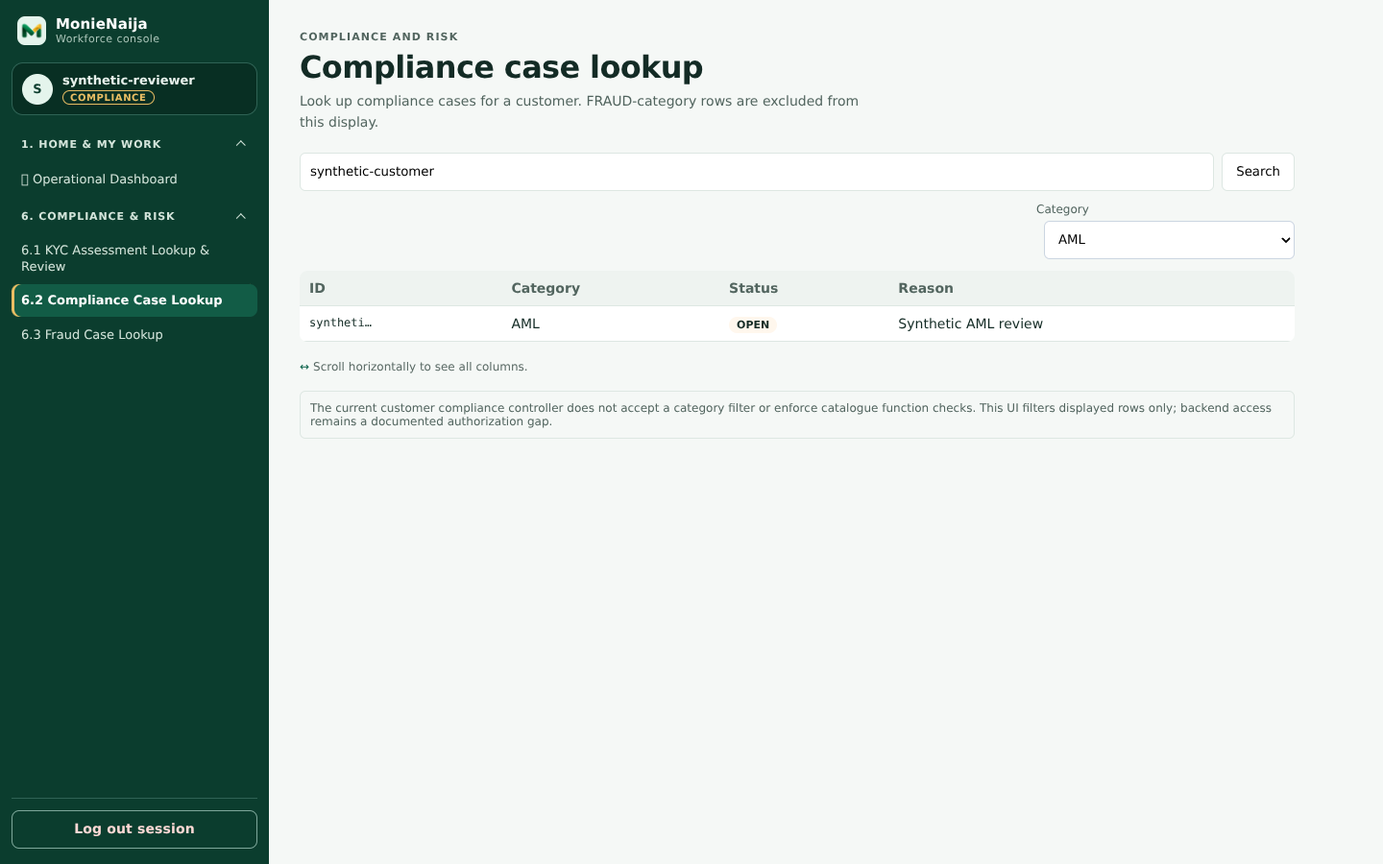
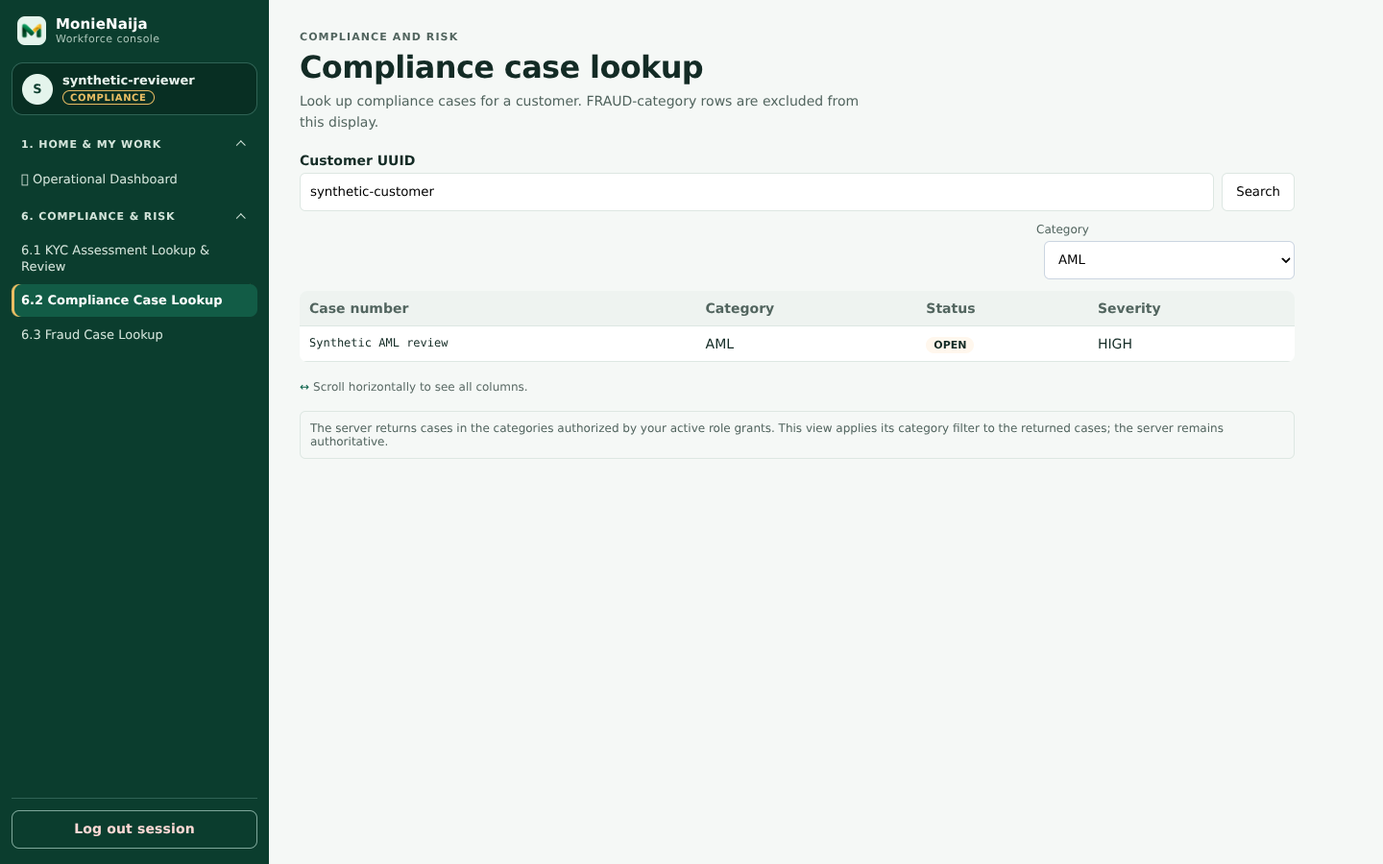
Align compliance workspaces with case access contract

diff --git a/apps/admin-web/src/screens/authenticated/ComplianceScreen.tsx b/apps/admin-web/src/screens/authenticated/ComplianceScreen.tsx
@@ -4,6 +4,7 @@ import './compliance-workspace.css';
 import { PageHeader, ScrollRegion } from '../../design-system/primitives';
 import { ApiClient } from '../../services/api-client';
 import { useAuthStore } from '../../store/auth-store';
+import { validCustomerCase } from '../../utils/compliance-case';
 
 interface ComplianceScreenProps {
   initialCustomerId?: string;
@@ -19,7 +20,7 @@ export const ComplianceScreen: React.FC<ComplianceScreenProps> = ({
   onBackToCustomer,
 }) => {
   const { principal } = useAuthStore();
-  const key = `${principal?.principalId ?? ''}:${[...(principal?.scopes ?? [])].sort().join('|')}:${mode}:${initialCustomerId ?? ''}`;
+  const key = JSON.stringify([principal?.principalId, principal?.sessionId, principal?.type, principal?.assuranceLevel, principal?.scopes, principal?.roles, mode, initialCustomerId, initialCategory]);
   return <ComplianceWorkspace key={key} principal={principal} initialCustomerId={initialCustomerId} initialCategory={initialCategory} mode={mode} onBackToCustomer={onBackToCustomer} />;
 };
 
@@ -75,10 +76,10 @@ const ComplianceWorkspace: React.FC<ComplianceScreenProps & {principal: ReturnTy
       requests.push(
         ApiClient.get(`/customers/${encodeURIComponent(id)}/kyc`)
           .then((record: any) => {
-            if (record !== null && (!record || typeof record !== 'object' || Array.isArray(record) || typeof (record.level ?? record.kycLevel) !== 'string' || typeof (record.status ?? record.kycStatus) !== 'string' || (record.customerId && record.customerId !== id))) throw new Error('KYC lookup returned an invalid response.');
+            if (!record || typeof record !== 'object' || Array.isArray(record) || typeof record.level !== 'string' || typeof record.status !== 'string' || record.customerId !== id) throw new Error('KYC lookup returned an invalid response.');
             if (valid()) setKyc(record);
           })
-          .catch((err: any) => { errors.push(err?.message || 'KYC assessment lookup failed'); }),
+          .catch((err: any) => { errors.push(err?.status === 404 ? 'Customer or current KYC assessment not found.' : err?.message || 'KYC assessment lookup failed'); }),
       );
     }
     if (mode === 'cases' && canManageCases) {
@@ -86,7 +87,7 @@ const ComplianceWorkspace: React.FC<ComplianceScreenProps & {principal: ReturnTy
         ApiClient.get(`/customers/${encodeURIComponent(id)}/compliance-cases`)
           .then((response: any) => {
             const rows = Array.isArray(response) ? response : response?.data ?? response?.items;
-            if (!Array.isArray(rows) || rows.some((row: any) => !row || typeof row.id !== 'string')) throw new Error('Compliance lookup returned an invalid response.');
+            if (!Array.isArray(rows) || rows.some((row: unknown) => !validCustomerCase(row, id))) throw new Error('Compliance lookup returned an invalid response.');
             if (valid()) setCases(rows);
           })
           .catch((err: any) => { errors.push(err?.message || 'Compliance case lookup failed'); }),
@@ -149,15 +150,15 @@ const ComplianceWorkspace: React.FC<ComplianceScreenProps & {principal: ReturnTy
     <div className="mn-operational mn-compliance" style={wrap}>
       <PageHeader eyebrow="Compliance and risk" title={mode === 'cases' ? 'Compliance case lookup' : 'KYC assessment lookup & review'} description={mode === 'cases' ? 'Look up compliance cases for a customer. FRAUD-category rows are excluded from this display.' : 'Look up an existing customer KYC assessment and perform only the review decision allowed by your function grants.'} />
       {initialCustomerId && onBackToCustomer && <button type="button" style={backButton} onClick={onBackToCustomer}>← Back to Customer 360°</button>}
-      <div style={searchRow}>
+      <div className="mn-compliance__search">
+        <label>Customer UUID
         <input
-          aria-label="Customer UUID"
           value={customerId}
           onChange={(event) => { lookupGeneration.current += 1; setLoading(false); setCustomerId(event.target.value); setKyc(null); setCases([]); setSearched(false); setError(''); setAssessMsg(''); setAssessErr(''); }}
           disabled={assessing}
           placeholder={initialCustomerId ? `Customer ${initialCustomerId.slice(0, 8)}…` : 'Customer UUID'}
           style={input}
-        />
+        /></label>
         <button onClick={() => fetchForCustomer()} style={btn} disabled={loading || assessing}>{loading ? 'Loading…' : 'Search'}</button>
       </div>
       {initialCustomerId && <div style={note}>Customer context carried from Customer 360°; the customer ID is passed to the scoped lookup endpoint.</div>}
@@ -192,11 +193,11 @@ const ComplianceWorkspace: React.FC<ComplianceScreenProps & {principal: ReturnTy
           </div>
           {visibleCases.length > 0 ? (
             <ScrollRegion label="Compliance cases" hint="Scroll horizontally to see all columns."><table style={table}>
-              <thead><tr><th>ID</th><th>Category</th><th>Status</th><th>Reason</th></tr></thead>
-              <tbody>{visibleCases.map((item: any) => <tr key={item.id}><td style={mono}>{item.id.slice(0, 8)}…</td><td>{item.category || item.type}</td><td><span style={badge(item.status)}>{item.status}</span></td><td>{item.reason || item.description || '—'}</td></tr>)}</tbody>
+              <thead><tr><th>Case number</th><th>Category</th><th>Status</th><th>Severity</th></tr></thead>
+              <tbody>{visibleCases.map((item: any) => <tr key={item.id}><td style={mono}>{item.caseNumber}</td><td>{item.category}</td><td><span style={badge(item.status)}>{item.status}</span></td><td>{item.severity}</td></tr>)}</tbody>
             </table></ScrollRegion>
           ) : !loading && searched && !error && <div style={empty}>No compliance cases match this customer and category filter.</div>}
-          <div style={note}>The current customer compliance controller does not accept a category filter or enforce catalogue function checks. This UI filters displayed rows only; backend access remains a documented authorization gap.</div>
+          <div style={note}>The server returns cases in the categories authorized by your active role grants. This view applies its category filter to the returned cases; the server remains authoritative.</div>
         </>
       )}
 

diff --git a/apps/admin-web/src/screens/authenticated/RiskFraudScreen.tsx b/apps/admin-web/src/screens/authenticated/RiskFraudScreen.tsx
@@ -4,6 +4,7 @@ import './compliance-workspace.css';
 import { PageHeader, ScrollRegion } from '../../design-system/primitives';
 import { ApiClient } from '../../services/api-client';
 import { useAuthStore } from '../../store/auth-store';
+import { validCustomerCase } from '../../utils/compliance-case';
 
 interface RiskFraudScreenProps {
   initialCustomerId?: string;
@@ -13,7 +14,7 @@ interface RiskFraudScreenProps {
 export const RiskFraudScreen: React.FC<RiskFraudScreenProps> = ({ initialCustomerId, onBackToCustomer }) => {
   const { principal } = useAuthStore();
   const canView = principal?.scopes.includes('risk_fraud.manage_fraud_case') ?? false;
-  const key = `${principal?.principalId ?? ''}:${canView}:${initialCustomerId ?? ''}`;
+  const key = JSON.stringify([principal?.principalId, principal?.sessionId, principal?.type, principal?.assuranceLevel, principal?.roles, canView, initialCustomerId]);
   return <FraudWorkspace key={key} canView={canView} initialCustomerId={initialCustomerId} onBackToCustomer={onBackToCustomer} />;
 };
 const FraudWorkspace: React.FC<RiskFraudScreenProps & {canView: boolean}> = ({canView, initialCustomerId, onBackToCustomer}) => {
@@ -31,10 +32,10 @@ const FraudWorkspace: React.FC<RiskFraudScreenProps & {canView: boolean}> = ({ca
     const id = requestedId.trim(); const request = ++generation.current;
     setLoading(true); setError(''); setCases([]); setSearched(false);
     try {
-      // The controller does not implement a category query; the screen filters the returned list.
+      // The server limits categories by current grants; this screen displays only FRAUD rows.
       const res: any = await ApiClient.get(`/customers/${encodeURIComponent(id)}/compliance-cases`);
       const all = Array.isArray(res) ? res : res?.data ?? res?.items;
-      if (!Array.isArray(all) || all.some((row: any) => !row || typeof row.id !== 'string')) throw new Error('Fraud case lookup returned an invalid response.');
+      if (!Array.isArray(all) || all.some((row: unknown) => !validCustomerCase(row, id))) throw new Error('Fraud case lookup returned an invalid response.');
       if (request !== generation.current) return;
       setCases(all.filter((c:any)=>(c.category||c.type)==='FRAUD'));
       setSearched(true);
@@ -50,11 +51,11 @@ const FraudWorkspace: React.FC<RiskFraudScreenProps & {canView: boolean}> = ({ca
     <div className="mn-operational mn-compliance" style={wrap}>
       <PageHeader eyebrow="Compliance and risk" title="Fraud case lookup" description={`This screen displays FRAUD-category compliance cases for a customer. ${initialCustomerId ? 'Customer ID pre-filled from Customer 360°.' : 'Search by customer UUID.'}`} />
       {initialCustomerId && onBackToCustomer && <button type="button" onClick={onBackToCustomer} style={btn}>← Back to Customer 360°</button>}
-      <div style={row}><input aria-label="Customer UUID" value={customerId} onChange={e=>{generation.current += 1;setCustomerId(e.target.value);setCases([]);setSearched(false);setError('');setLoading(false);}} placeholder={initialCustomerId ? `Customer ${initialCustomerId.slice(0,8)}…` : "Customer UUID"} style={input}/><button onClick={()=>void fetchFraud()} style={btn} disabled={loading}>{loading?'Loading…':'Search FRAUD cases'}</button></div>
+      <div className="mn-compliance__search"><label>Customer UUID<input value={customerId} onChange={e=>{generation.current += 1;setCustomerId(e.target.value);setCases([]);setSearched(false);setError('');setLoading(false);}} placeholder={initialCustomerId ? `Customer ${initialCustomerId.slice(0,8)}…` : "Customer UUID"} style={input}/></label><button onClick={()=>void fetchFraud()} style={btn} disabled={loading}>{loading?'Loading…':'Search FRAUD cases'}</button></div>
       {initialCustomerId && <div style={note}>🔗 Customer pre-filled — no manual UUID paste.</div>}
       {error && <div style={errBox} role="alert">{error}</div>}
-      {cases.length>0 ? <ScrollRegion label="Fraud cases" hint="Scroll horizontally to see all columns."><table style={table}><thead><tr><th>ID</th><th>Status</th><th>Reason</th><th>Created</th></tr></thead><tbody>{cases.map((c:any)=><tr key={c.id}><td style={mono}>{c.id.slice(0,8)}…</td><td><span style={badge(c.status)}>{c.status}</span></td><td>{c.reason||'-'}</td><td>{c.createdAt? new Date(c.createdAt).toLocaleString(): '-'}</td></tr>)}</tbody></table></ScrollRegion> : !loading && searched && !error && <div style={empty}>No FRAUD cases — empty is expected unless risk events were created.</div>}
-      <div style={note}>The current compliance-case list endpoint returns all categories and has no catalogue function check. FRAUD filtering happens in this UI only; backend category isolation is a documented authorization gap and is not replaced by this screen guard.</div>
+      {cases.length>0 ? <ScrollRegion label="Fraud cases" hint="Scroll horizontally to see all columns."><table style={table}><thead><tr><th>Case number</th><th>Status</th><th>Severity</th><th>Opened</th></tr></thead><tbody>{cases.map((c:any)=><tr key={c.id}><td style={mono}>{c.caseNumber}</td><td><span style={badge(c.status)}>{c.status}</span></td><td>{c.severity}</td><td>{c.openedAt && Number.isFinite(Date.parse(c.openedAt)) ? new Date(c.openedAt).toLocaleString() : '—'}</td></tr>)}</tbody></table></ScrollRegion> : !loading && searched && !error && <div style={empty}>No FRAUD cases — empty is expected unless risk events were created.</div>}
+      <div style={note}>The server returns cases in the categories authorized by your active role grants. This view displays FRAUD cases from those results; the server remains authoritative.</div>
     </div>
   );
 };

diff --git a/apps/admin-web/__tests__/m2-compliance-workspaces.test.tsx b/apps/admin-web/__tests__/m2-compliance-workspaces.test.tsx
@@ -16,12 +16,29 @@ test('KYC response for a previous lookup cannot appear after changing the custom
  expect(screen.queryByText(/LEVEL_3/)).toBeNull();expect(screen.getByText(/Level LEVEL_2/)).toBeTruthy();
 });
 test('switching the fraud customer clears prior results and ignores obsolete responses',async()=>{
- principal(['risk_fraud.manage_fraud_case']);const old=deferred();(ApiClient.get as jest.Mock).mockReturnValueOnce(old.promise).mockResolvedValueOnce([{id:'new-fraud',category:'FRAUD',status:'OPEN',reason:'new case'}]);
+ principal(['risk_fraud.manage_fraud_case']);const old=deferred();(ApiClient.get as jest.Mock).mockReturnValueOnce(old.promise).mockResolvedValueOnce([{id:'new-fraud',customerId:'new',caseNumber:'new case',category:'FRAUD',severity:'HIGH',status:'OPEN'}]);
  render(<RiskFraudScreen/>);fireEvent.change(screen.getByLabelText('Customer UUID'),{target:{value:'old'}});fireEvent.click(screen.getByRole('button',{name:'Search FRAUD cases'}));fireEvent.change(screen.getByLabelText('Customer UUID'),{target:{value:'new'}});fireEvent.click(screen.getByRole('button',{name:'Search FRAUD cases'}));
- expect(await screen.findByText('new case')).toBeTruthy();await act(async()=>{old.resolve([{id:'old-fraud',category:'FRAUD',status:'OPEN',reason:'old case'}]);await old.promise;});expect(screen.queryByText('old case')).toBeNull();
+ expect(await screen.findByText('new case')).toBeTruthy();await act(async()=>{old.resolve([{id:'old-fraud',customerId:'old',caseNumber:'old case',category:'FRAUD',severity:'HIGH',status:'OPEN'}]);await old.promise;});expect(screen.queryByText('old case')).toBeNull();
 });
 test('KYC submission distinguishes an incomplete receipt and keeps successful feedback visible after refresh',async()=>{
  principal(['kyc.view','kyc.approve']);(ApiClient.get as jest.Mock).mockResolvedValue({customerId:'synthetic-customer',level:'LEVEL_1',status:'APPROVED'});(ApiClient.post as jest.Mock).mockResolvedValueOnce({}).mockResolvedValueOnce({id:'assessment',customerId:'synthetic-customer',level:'LEVEL_1',status:'APPROVED'});
  render(<ComplianceScreen mode="kyc"/>);fireEvent.change(screen.getByLabelText('Customer UUID'),{target:{value:'synthetic-customer'}});fireEvent.click(screen.getByRole('button',{name:'Submit Assessment'}));
  expect(await screen.findByText(/Assessment outcome not confirmed/)).toBeTruthy();fireEvent.click(screen.getByRole('button',{name:'Submit Assessment'}));expect(await screen.findByText('KYC assessment submitted.')).toBeTruthy();expect(await screen.findByText(/Level LEVEL_1/)).toBeTruthy();expect(screen.getByText('KYC assessment submitted.')).toBeTruthy();
+});
+test('a 404 does not imply whether the customer or assessment was absent',async()=>{
+ principal(['kyc.view']);(ApiClient.get as jest.Mock).mockRejectedValue(Object.assign(new Error('Not found'),{status:404}));
+ render(<ComplianceScreen mode="kyc"/>);fireEvent.change(screen.getByLabelText('Customer UUID'),{target:{value:'missing'}});fireEvent.click(screen.getByRole('button',{name:'Search'}));
+ expect(await screen.findByText('Customer or current KYC assessment not found.')).toBeTruthy();expect(screen.queryByText('No KYC assessment found for this customer.')).toBeNull();
+});
+test('an incomplete case row or a case for another customer is an error, not an empty result',async()=>{
+ principal(['compliance.manage_case']);(ApiClient.get as jest.Mock).mockResolvedValueOnce([{id:'case',customerId:'one',caseNumber:'CASE-1',status:'OPEN',severity:'HIGH'}]).mockResolvedValueOnce([{id:'case',customerId:'other',caseNumber:'CASE-1',category:'AML',status:'OPEN',severity:'HIGH'}]);
+ render(<ComplianceScreen mode="cases"/>);fireEvent.change(screen.getByLabelText('Customer UUID'),{target:{value:'one'}});fireEvent.click(screen.getByRole('button',{name:'Search'}));
+ expect(await screen.findByText('Compliance lookup returned an invalid response.')).toBeTruthy();expect(screen.queryByText(/No compliance cases match/)).toBeNull();fireEvent.click(screen.getByRole('button',{name:'Search'}));expect(await screen.findByText('Compliance lookup returned an invalid response.')).toBeTruthy();
+});
+test('review-only KYC functions cannot select an approval or rejection',()=>{
+ principal(['kyc.review']);render(<ComplianceScreen mode="kyc"/>);expect(screen.getByRole('option',{name:'PENDING'})).toBeTruthy();expect(screen.queryByRole('option',{name:'APPROVED'})).toBeNull();expect(screen.queryByRole('option',{name:'REJECTED'})).toBeNull();
+});
+test('a new session for the same reviewer clears the prior customer and draft',()=>{
+ principal(['kyc.view','kyc.review']);render(<ComplianceScreen mode="kyc"/>);fireEvent.change(screen.getByLabelText('Customer UUID'),{target:{value:'one'}});fireEvent.change(screen.getByLabelText('Assessment reason (optional)'),{target:{value:'sensitive draft'}});
+ act(()=>useAuthStore.setState(state=>({principal:{...state.principal!,sessionId:'new-session'}})));expect((screen.getByLabelText('Customer UUID') as HTMLInputElement).value).toBe('');expect((screen.getByLabelText('Assessment reason (optional)') as HTMLInputElement).value).toBe('');
 });

diff --git a/apps/admin-web/src/screens/authenticated/compliance-workspace.css b/apps/admin-web/src/screens/authenticated/compliance-workspace.css
@@ -8,3 +8,6 @@
 .mn-compliance :is(code, [role="alert"], [role="status"]) { overflow-wrap: anywhere; }
 .mn-compliance form { display: grid !important; grid-template-columns: repeat(auto-fit, minmax(min(100%, 180px), 1fr)); align-items: end !important; }
 .mn-compliance form select, .mn-compliance form input { width: 100%; border: 1px solid var(--mn-border-subtle, #dde7e2); border-radius: 6px; padding: 8px; background: #fff; }
+.mn-compliance__search { display: grid; grid-template-columns: minmax(0, 1fr) auto; align-items: end; gap: 8px; margin-bottom: 12px; }
+.mn-compliance__search label { font-size: .875rem; font-weight: 600; }
+@media (max-width: 480px) { .mn-compliance__search { grid-template-columns: minmax(0, 1fr); } .mn-compliance__search button { justify-self: start; } }

diff --git a/apps/admin-web/src/utils/compliance-case.ts b/apps/admin-web/src/utils/compliance-case.ts
@@ -1,0 +1,17 @@
+/** The customer case endpoint returns persisted case entities, not free-form case summaries. */
+export interface CustomerComplianceCaseRow {
+  id: string;
+  customerId: string;
+  caseNumber: string;
+  category: string;
+  severity: string;
+  status: string;
+  openedAt?: string;
+}
+
+export function validCustomerCase(value: unknown, customerId: string): value is CustomerComplianceCaseRow {
+  if (!value || typeof value !== 'object' || Array.isArray(value)) return false;
+  const row = value as CustomerComplianceCaseRow;
+  const text = (item: unknown) => typeof item === 'string' && !!item.trim();
+  return text(row.id) && row.customerId === customerId && text(row.caseNumber) && text(row.category) && text(row.severity) && text(row.status);
+}

diff --git a/docs/admin-m2/implementation-checklist.md b/docs/admin-m2/implementation-checklist.md
@@ -35,9 +35,9 @@ Baseline: `3b0ca4488fb40ac5a64ed4ff6264dc64be2e954e` (fetched integration branch
 | [A16](../design-discovery-20261029/01-inventory.md#A16) | productCatalogue | Partial: commercial layout, keyboard tabs, malformed list/principal guards; synthetic populated registry at eight widths; restricted and keyboard review pending. |
 | [A17](../design-discovery-20261029/01-inventory.md#A17) | limitCatalogue | Partial: commercial layout, keyboard tabs, malformed list/principal guards and local-scrolling grid correction; synthetic populated profiles/rules at eight widths; restricted and keyboard review pending. |
 | [A18](../design-discovery-20261029/01-inventory.md#A18) | limitAssignments | Partial: context-scoped read/action guards, validated assignment receipts, pending state, no fabricated assignment version, diagnostic request validation; populated assignments/usage/reservations at eight widths; filter-preserving assignment pagination tested with synthetic pages; role and mutation acceptance remain. |
-| [A19](../design-discovery-20261029/01-inventory.md#A19) | kycQueue | Partial: labeled lookup, customer/request guards and action receipt validation; populated synthetic KYC and case results at eight widths; authorization and action review pending. |
-| [A20](../design-discovery-20261029/01-inventory.md#A20) | complianceCases | Partial: labeled lookup, customer/request guards and action receipt validation; populated synthetic KYC and case results at eight widths; authorization and action review pending. |
-| [A21](../design-discovery-20261029/01-inventory.md#A21) | fraudCases | Partial: labeled lookup and failure/empty separation; populated workflow review pending. |
+| [A19](../design-discovery-20261029/01-inventory.md#A19) | kycQueue | Partial: visible lookup labels, customer/session guards, ambiguous 404 handling and action receipt validation; populated synthetic KYC and case results at eight widths; authorization and action review pending. |
+| [A20](../design-discovery-20261029/01-inventory.md#A20) | complianceCases | Partial: visible lookup label, session and customer-scoped case validation and persisted case fields; populated synthetic case results at eight widths; authorization review pending. |
+| [A21](../design-discovery-20261029/01-inventory.md#A21) | fraudCases | Partial: visible lookup label, scoped case validation, persisted case fields and failure/empty separation; populated synthetic results at eight widths; authorization review pending. |
 | [A22](../design-discovery-20261029/01-inventory.md#A22) | workforceAccess | Partial: responsive workforce summary/provisioning, malformed/stale read guards, one-time credential/session clearing and validated disable receipts; synthetic summary and provisioning at eight widths; role/action review pending. |
 | [A23](../design-discovery-20261029/01-inventory.md#A23) | roleGovernance | Partial: responsive governance forms, domain/action state indicators, session-scoped drafts, self-change and assignment-MFA guards, and matching principal/role/status receipts; synthetic operational form at eight widths; role/action review pending. |
 | [A24](../design-discovery-20261029/01-inventory.md#A24) | approvalsInbox | Partial: accessible checker fields, verified decision outcomes and session-scoped context guards; synthetic approved/denied generic checker decisions at eight widths; funding/role action review pending. |
@@ -59,6 +59,10 @@ Baseline: `3b0ca4488fb40ac5a64ed4ff6264dc64be2e954e` (fetched integration branch
 | [E12](../design-discovery-20261029/01-inventory.md#E12) | Notification template workspace | Partial: responsive controls, reference-vs-active status, channel-isolated registry errors and request guards, scoped principal state, safe preview and local table scroll; synthetic SMS/Email at eight widths; mutation and approval review pending. |
 | [E13](../design-discovery-20261029/01-inventory.md#E13) | Provider configuration workspace | Partial: scoped controls, stale refresh, blocked/malformed queue and permission/request guards; synthetic populated configuration at eight widths; maker/checker action review pending. |
 
+### Compliance contract correction
+
+An earlier UI note incorrectly stated that the case endpoint had no catalogue check or category isolation. The integration baseline has `CustomerComplianceAccessGuard`, which intersects session scopes with active role/function grants, and the service restricts returned categories and customer ID. The UI copy now reflects that contract; the additional category selector is still client-side. This source review is not a substitute for live authorization acceptance.
+
 ## Cross-cutting requirements
 
 | Requirement | Status / evidence |
@@ -71,7 +75,7 @@ Baseline: `3b0ca4488fb40ac5a64ed4ff6264dc64be2e954e` (fetched integration branch
 | Responsive widths and zoom | [Navigation smoke](evidence/navigation-smoke.json): 224 synthetic mostly initial/503 cases at 320, 360, 390, 768, 769, 1024, 1280 and 1440 px, no document overflow. [Loaded smoke](evidence/loaded-smoke.json): 24 populated Support, Fees and Ledger cases at those widths, no document overflow. [Agent](evidence/agent-workspaces-smoke.json), [Customer](evidence/customer-workspaces-smoke.json), and [Notification workspaces](evidence/notification-workspaces-smoke.json) add 104 synthetic populated checks at eight widths with no document overflow. [Recovery](evidence/recovery-smoke.json), [Workforce](evidence/workforce-smoke.json) and [generic approvals](evidence/approvals-smoke.json) add 48 synthetic checks at eight widths without document overflow. [Compliance](evidence/compliance-smoke.json) adds 24 and [Agent classes](evidence/agent-classes-smoke.json) adds 8 loaded synthetic checks, also without document overflow. [Transactions](evidence/transaction-workspaces-smoke.json) add 24, [Finance](evidence/finance-workspaces-smoke.json) 16, [Commercial](evidence/commercial-workspaces-smoke.json) 48 and [System/Audit](evidence/system-audit-smoke.json) 16 and [Cash-to-Cash](evidence/cash-to-cash-smoke.json) 8 and [funding checker](evidence/funding-checker-smoke.json) 8 synthetic checks across the same widths, without page-wide overflow. This is not comprehensive responsive acceptance; real 200%/400% zoom and all other populated/action states remain. |
 | Keyboard, contrast and assistive technology | Commercial tab keyboard test added; comprehensive manual keyboard, contrast and assistive technology review remains. |
 | Visual design, screenshots and owner acceptance | [Synthetic screenshots and scripts](evidence/) include Login, Dashboard, Support, Agents, Notifications, Transfers, populated Fees and Ledger at selected widths. They are not visual acceptance. Obtain Product/Design, Accessibility, Security and Finance/Operations review as applicable; historical design approval remains unconfirmed. |
-| Automated checks | Latest full run: frontend typecheck, 55 Jest suites / 402 tests and production build passed; `git diff --check` passed. React test `act(...)` warnings, Vite CJS deprecation and >500 kB bundle warning remain. No Admin lint script provided. |
+| Automated checks | Latest full run: frontend typecheck, 55 Jest suites / 406 tests and production build passed; `git diff --check` passed. React test `act(...)` warnings, Vite CJS deprecation and >500 kB bundle warning remain. No Admin lint script provided. |
 | CI, PR and integration | Not run / not opened / not merged: substantial implementation and acceptance remain outstanding. |
 
 ## Continuation plan
